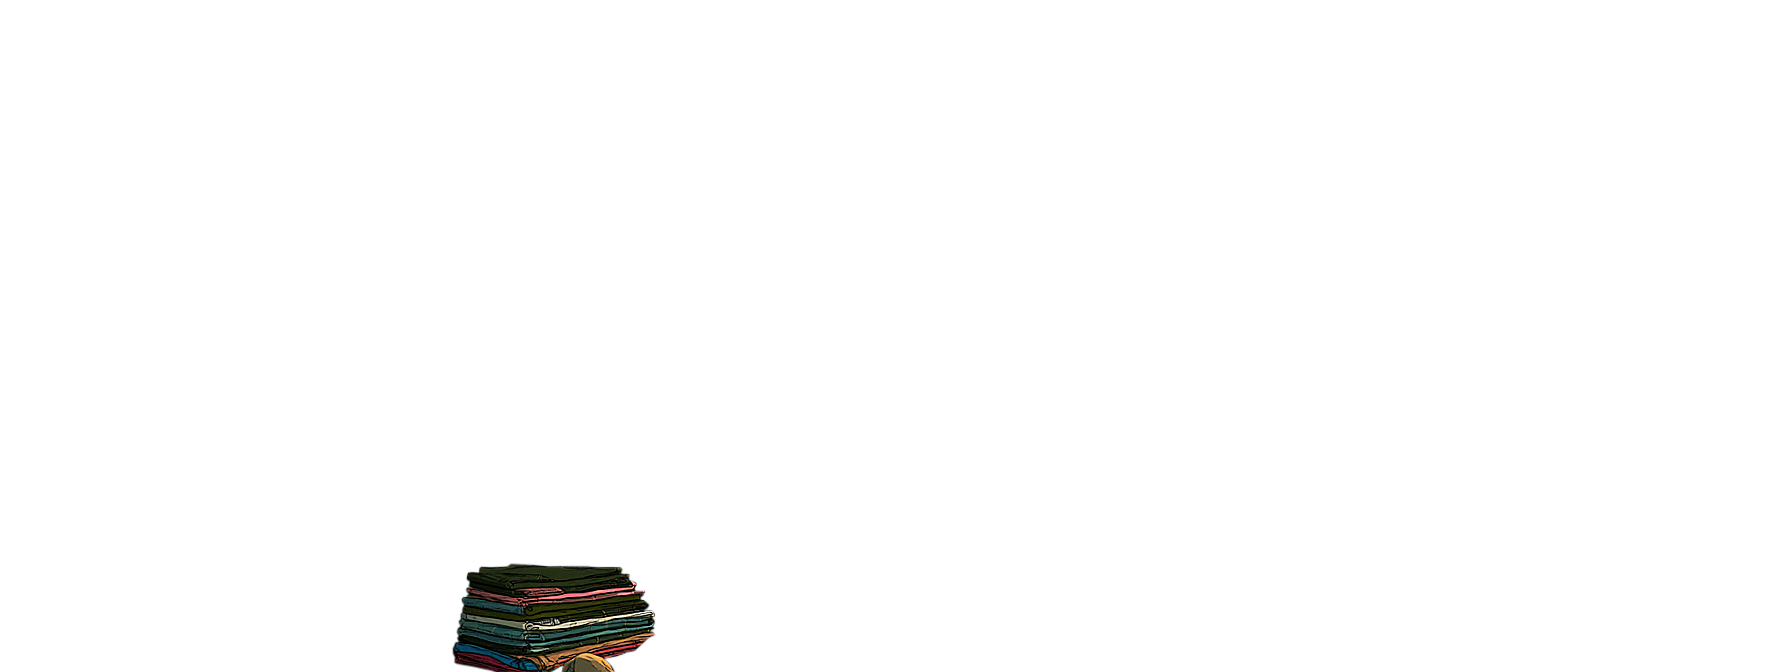
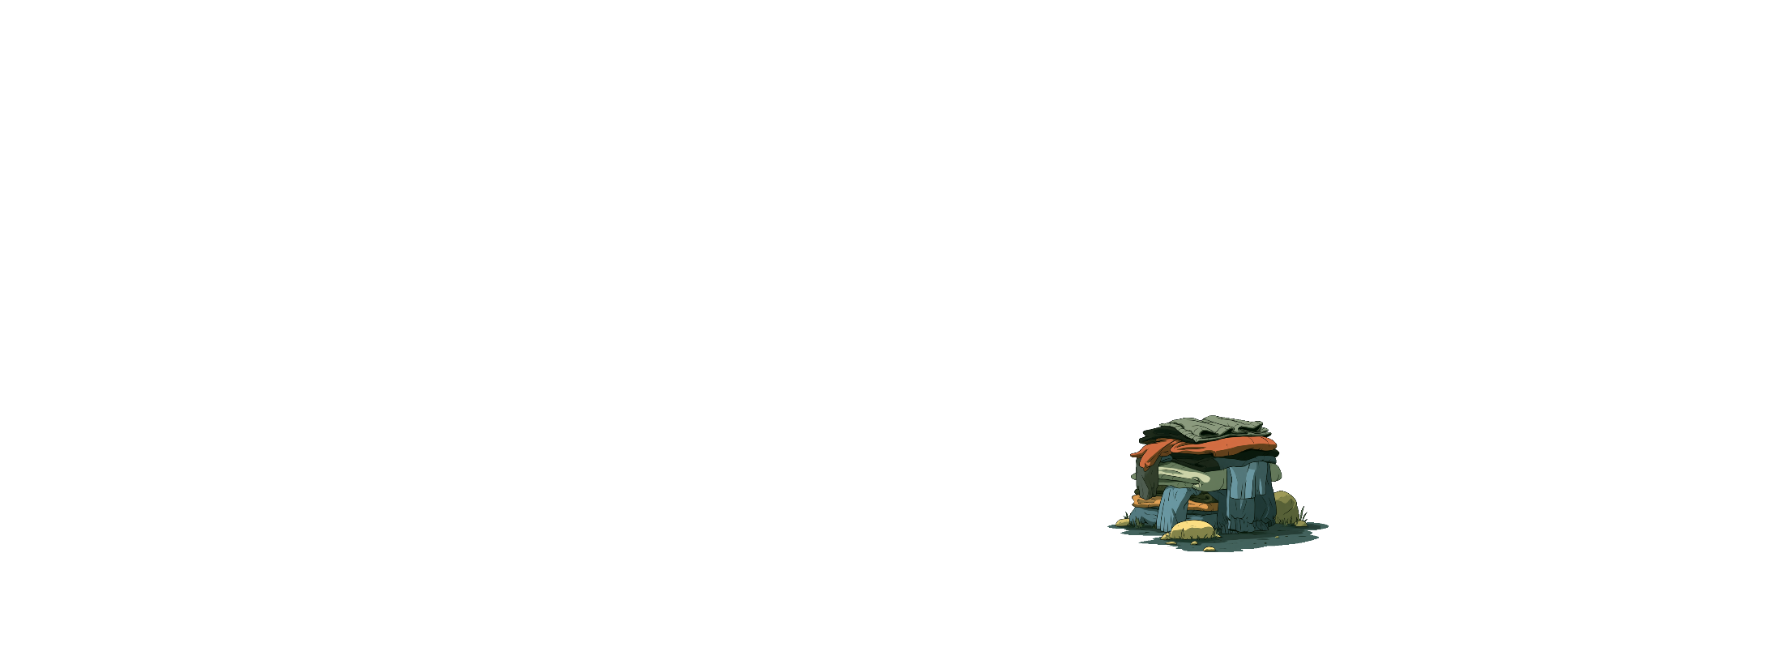
Lagerbild: Krempelplatz neu und rechts, Steinpferch überarbeitet
- Neue Zeichnung des Krempelplatzes (Aufbewahrung 1) an neuem Platz
  rechts vom Feuer, für alle Lagerstufen.
- Überarbeitete Zeichnung des Steinpferchs (Perspektive angepasst).
- Version 4.15.6.

Claude-Session: https://claude.ai/code/session_0117M4aYJ5RoPwj7oU8m6XcB

Changed region(s): [[0.625, 0.5938, 0.75, 0.8438], [0.25, 0.8125, 0.375, 1.0]]

diff --git a/sw.js b/sw.js
@@ -5,7 +5,7 @@
 // The real app and its test copy can lie side by side on one web space.
 // Each keeps its own store, named after its folder, and only clears its own.
 const FOLDER = new URL(self.registration.scope).pathname;
-const CACHE = `envoy-v37 ${FOLDER}`;
+const CACHE = `envoy-v38 ${FOLDER}`;
 const NETWORK_TIMEOUT_MS = 3500;
 
 self.addEventListener('install', () => self.skipWaiting());

diff --git a/js/config.js b/js/config.js
@@ -1,7 +1,7 @@
 // Fixed values of the game. Everything the rules depend on lives here,
 // so it can be checked in one place against docs/spezifikation.md.
 
-export const APP_VERSION = '4.15.5';
+export const APP_VERSION = '4.15.6';
 
 // Pictures are asked for with the version of the app, so after an update a
 // device fetches a new drawing instead of showing an old copy it kept.
